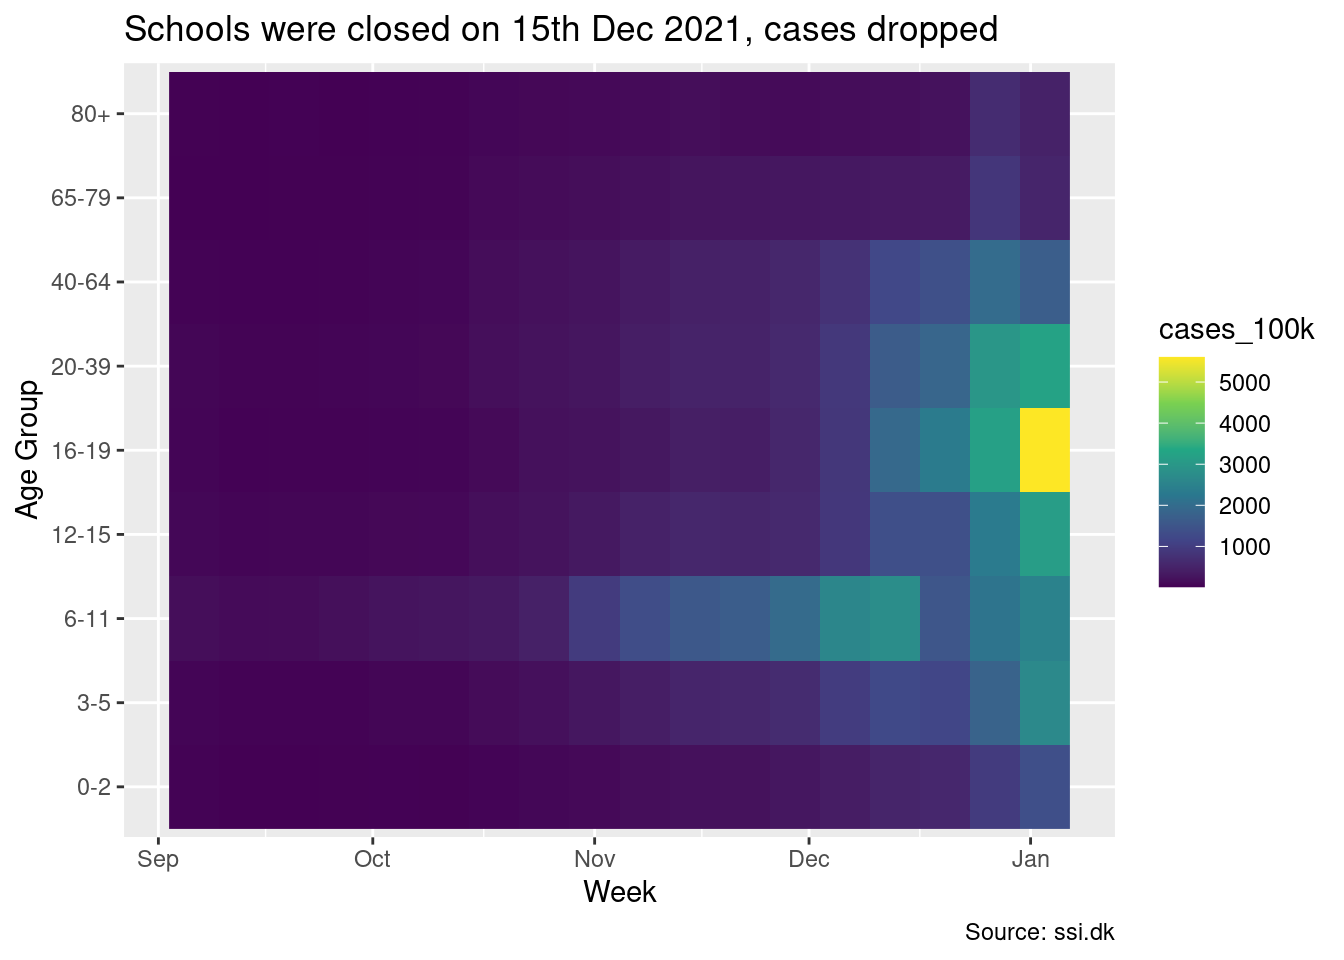
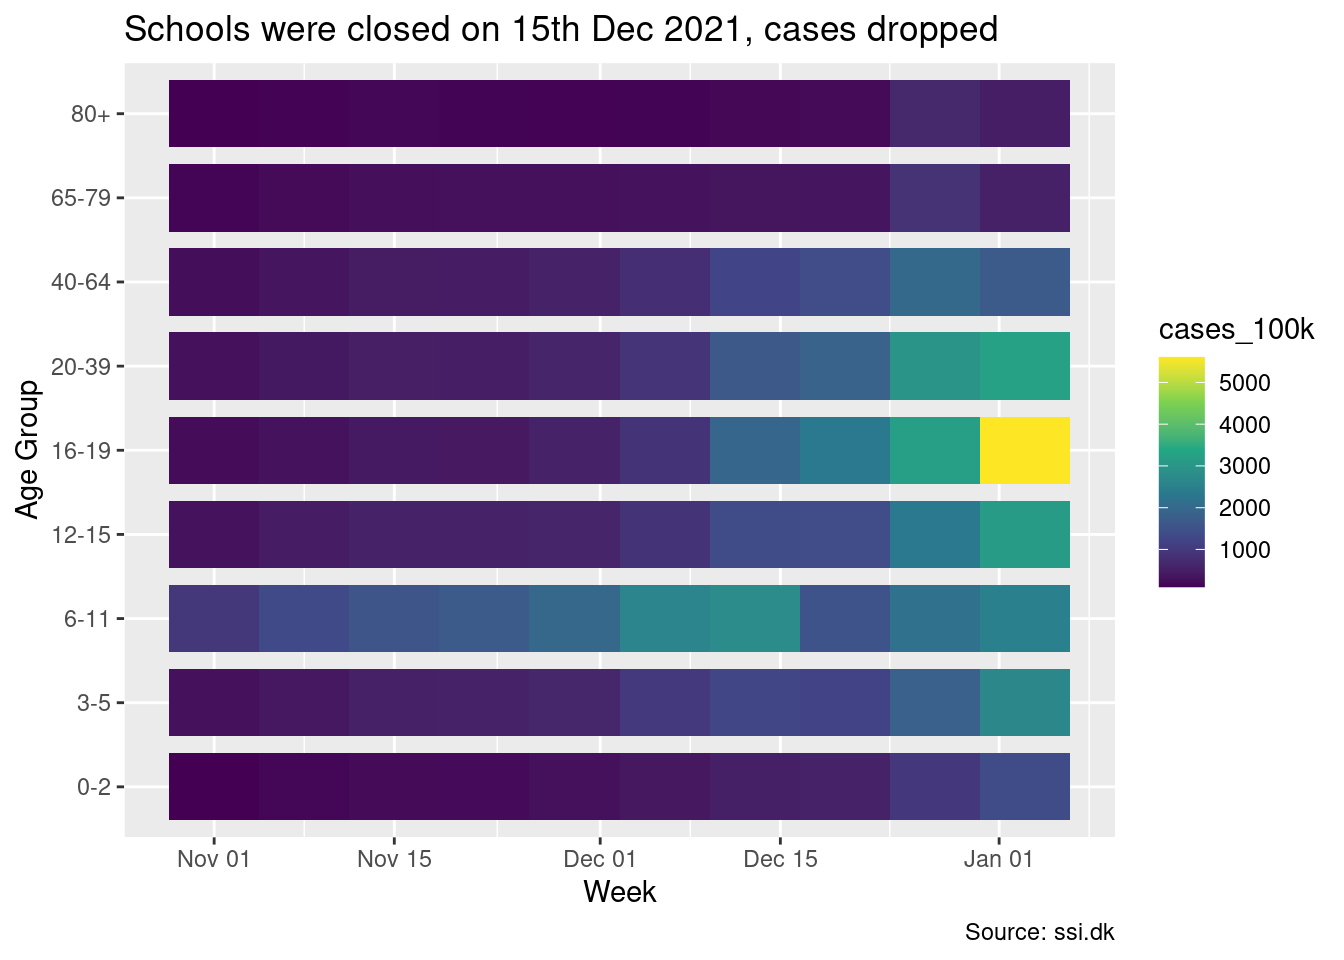
Improve plots a bit

Changed region(s): [[0.125, 0.0625, 0.8125, 0.8125], [0.0938, 0.8438, 0.8125, 0.9062], [0.9062, 0.4375, 0.9375, 0.5938]]

diff --git a/docs/index.html b/docs/index.html
@@ -459,7 +459,9 @@ data</code></pre>
     return(as.POSIXct(res))
 }</code></pre>
 <p>With the function defined, we can <code>mutate</code> our data set by the fixup, setting each value in the table to be the fixup’ed value. While here, also cut off the older values since we are mostly interested in the recent data.</p>
-<pre class="r"><code># Apply this to the data set
+<pre class="r"><code>lo_cutoff &lt;- &quot;2021-11-01&quot;
+
+# Apply this to the data set
 data &lt;- data %&gt;% mutate(week = fixup_week(week))
 data &lt;- data %&gt;% filter(week &gt;= lo_cutoff)</code></pre>
 <p>Finally, lets use a good name for this dataset (tibble):</p>
@@ -552,15 +554,17 @@ plot_day_of_week(p, &quot;Some days of the week has clear over/under-representat
 <p>To visualize the regional data, we use a facet grid, splitting on region. As we see, there are a lot of noise data generated by “Hovedstaden” (corresponding to the general area around Copenhagen). This region is generating most cases, by far.</p>
 <pre class="r"><code>plot_regions &lt;- function(p, title, caption) {
     p + geom_point(aes(color=region)) +
-        geom_smooth(method = &#39;loess&#39;, span = 0.3) +
         facet_grid(rows=vars(region)) +
         scale_colour_brewer(palette=&quot;Set2&quot;) +
-        labs(title = title, caption = caption)
+        scale_y_continuous(breaks = c(0, 10000)) +
+        labs(title = title,
+             caption = caption,
+             x = &quot;Date&quot;,
+             y = &quot;Detected Cases&quot;)
 }
 
 p &lt;- ggplot(regions, aes(x=date, y=cases))
 plot_regions(p, &quot;Copenhagen-general area (Hovedstaden) contributes most of the noise&quot;, &quot;Source: ssi.dk&quot;)</code></pre>
-<pre><code>## `geom_smooth()` using formula &#39;y ~ x&#39;</code></pre>
 <p><img src="index_files/figure-html/regional-cases-1.png" width="672" /></p>
 </div>
 </div>
@@ -574,19 +578,15 @@ plot_regions(p, &quot;Copenhagen-general area (Hovedstaden) contributes most of 
 <h3>Visualizations</h3>
 <p>We can provide a simple raster plot, where <code>x</code> represents the week, <code>y</code> represents the (discrete) age group and the fill represents the count we are interested in. In principle, the age groups have different sizes, but we can adjust for the size difference in groups by looking at “x per 100.000”.</p>
 <pre class="r"><code>plot_age_cases &lt;- function(p, title, caption) {
-    p + geom_raster() +
+    p + geom_tile() +
         scale_fill_continuous(type = &quot;viridis&quot;) +
         labs(title = title, caption = caption, x=&quot;Week&quot;, y = &quot;Age Group&quot;)
 }</code></pre>
-<pre class="r"><code>p &lt;- ggplot(weekly, aes(x=week, y=ageGroup, fill=cases_100k, height=ageBand/24))
+<pre class="r"><code>p &lt;- ggplot(weekly, aes(x=week, y=ageGroup, fill=cases_100k, height=0.8))
 plot_age_cases(p, &quot;Schools were closed on 15th Dec 2021, cases dropped&quot;, &quot;Source: ssi.dk&quot;)</code></pre>
-<pre><code>## Warning: Raster pixels are placed at uneven horizontal intervals and will be
-## shifted. Consider using geom_tile() instead.</code></pre>
 <p><img src="index_files/figure-html/age-group-cases-1.png" width="672" /></p>
-<pre class="r"><code>p &lt;- ggplot(weekly, aes(x=week, y=ageGroup, fill=tested_100k))
+<pre class="r"><code>p &lt;- ggplot(weekly, aes(x=week, y=ageGroup, fill=tested_100k, height=0.8))
 plot_age_cases(p, &quot;Schools were closed on 15th Dec 2021, tests dropped&quot;, &quot;Source: ssi.dk&quot;)</code></pre>
-<pre><code>## Warning: Raster pixels are placed at uneven horizontal intervals and will be
-## shifted. Consider using geom_tile() instead.</code></pre>
 <p><img src="index_files/figure-html/age-group-tests-1.png" width="672" /></p>
 </div>
 </div>
